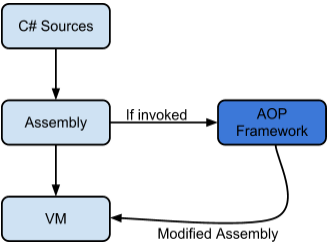
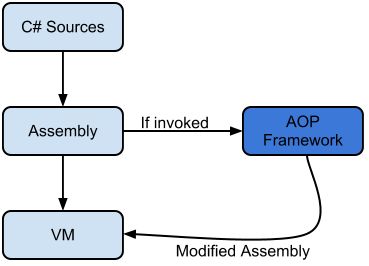
Added more conent to the proposal
A lot more to go...

Changed region(s): [[0.0, 0.0, 0.997, 1.0], [0.0604, 0.4628, 0.2719, 0.5496], [0.0604, 0.0579, 0.3021, 0.1446]]

diff --git a/proposal/Proposal.tex b/proposal/Proposal.tex
@@ -78,11 +78,14 @@ Aspect Oriented Programming (AOP) is a paradigm that let programmers isolate and
 \newpage{}
 
 \section{Introduction}
-This part of the proposal should be a couple of paragraphs that
-describe the reason for your proposal and your project/thesis area at
-high level.
+The current breed of high level programming languages such as JAVA and C\# have given programmers a lot of freedowm in expressing themselves in Object Oriented Design. However they are still lacking in some areas when it comes to some particular software design decision such as cross-cutting concern. 
+
+In this project we will design and implement a framework for the C\# platform that will help programmers solve this type of problems.
+
+In section 2 we will dive into some of the areas that the current programming paradigm are not efficient at solving, we will look at some examples. In section 3 we will look at existing works and what have been done. In section 5 we will explain what we propose to do and give and overview of the architecture of the framework that we will implement, and what we want the end result to be. A tentative roadmap is given in section 6.
 
 \section{Background}
+\subsection{The Problem}
 Procedural Language such as C achieves modularity by grouping codes into subroutines or functions, whereas Object Oriented Programming (OOP) such as JAVA or C\# go one step further, and they allow programmers to abstract real world object into properties and behaviors.
 
 While both paradigms give programmers of that languages the ability to make their code cleaner and more reusable, they are not sufficient to clearly capture some of the important software design decision [1].
@@ -108,6 +111,9 @@ Line 4 is going to throw an exception, now imagine if you have 10,000 functions 
 Imagine again, what if you need to fine tune this try..catch block to catch a specific exception so your program can act accordingly, or instead of logging to a file you want to log it to a database. In the worst case you would have to make the change to all 10,000 of your functions.
 
 The problem is how to isolate those cross-cutting concerns from loitering your program. Aspect Oriented Programming technique [1] can be used to cleanly separate such concerns.
+
+\subsection{Aspect-Oriented Programming}
+More to come...
 
 \section{Related Work}
 The Aspect Oriented Programming paradigm is first discussed in the 1997 paper ~\cite{aop}, like other paradigms, it is most effective and beneficial to programmers when it is supported on the compiler level, and make it a first class citizen like other properties of a language. Failing that, the next best thing is to have a framework to provide the support.
@@ -155,7 +161,7 @@ knows what you plan to do to establish your hypothesis.
 \subsection{Architecture Overview}
 There are many approaches on how to implement an AOP framework. The approach I plan to take is to perform post compilation weaving. Figure 1 shows an overview of how the AOP framework will fit in the overall C\# compilation process.
 
-\includegraphics[width=331px,keepaspectratio=true]{model_overview.png}
+\includegraphics[scale=0.70]{model_overview.png}
 
 From the Visual Studio IDE, developer can use the framework by simply first creating a custom C\# attribue, extending a framework interface IAspect (subject to change), for ex:
 
@@ -215,13 +221,6 @@ While I can opt to invest my time on learning and rolling my own IL rewriter, a 
 The following utility tools will also be heavily used during development: ILSpy, ILDASM and PEVerify. ILSpy is an open source application that dis-assemble assembly to show IL instructions. ILDASM does the same but comes from Microsoft’s .NET Framework. PEVerify is a Microsoft Window SDK tool, it will be used to ensure that the modified assembly produced is a correct assembly.
 
 \section{Roadmap}
-
-Here you need to describe your project plan, with dates and deliverables. 
-
-You must review the CS graduate handbook for details, and yes, make
-sure you also address all of the handbook's requirements for a
-proposal.
-
 The following table shows my tentative schedule for the major phases of the project.
 
 \begin{table}[h]
@@ -233,10 +232,9 @@ Date & Action & Status\\
 07/07/2012 & Pre-Proposal & Accepted\\
 07/09/2012 & Proposal & In-progress\\
 07/20/2012 & Begin development of the framework & In-progress\\
-08/20/2012 & Finish development & Started\\
-- & Testing and analysis & - \\
-- & Finish report & - \\
-- & Defense & - \\
+09/10/2012 & Finish development, start testing and analysis- \\
+09/27/2012 & Finish report & - \\
+10/10/2012 & Defense & - \\
 \hline
 \end{tabular}
 \caption{Timeline}
